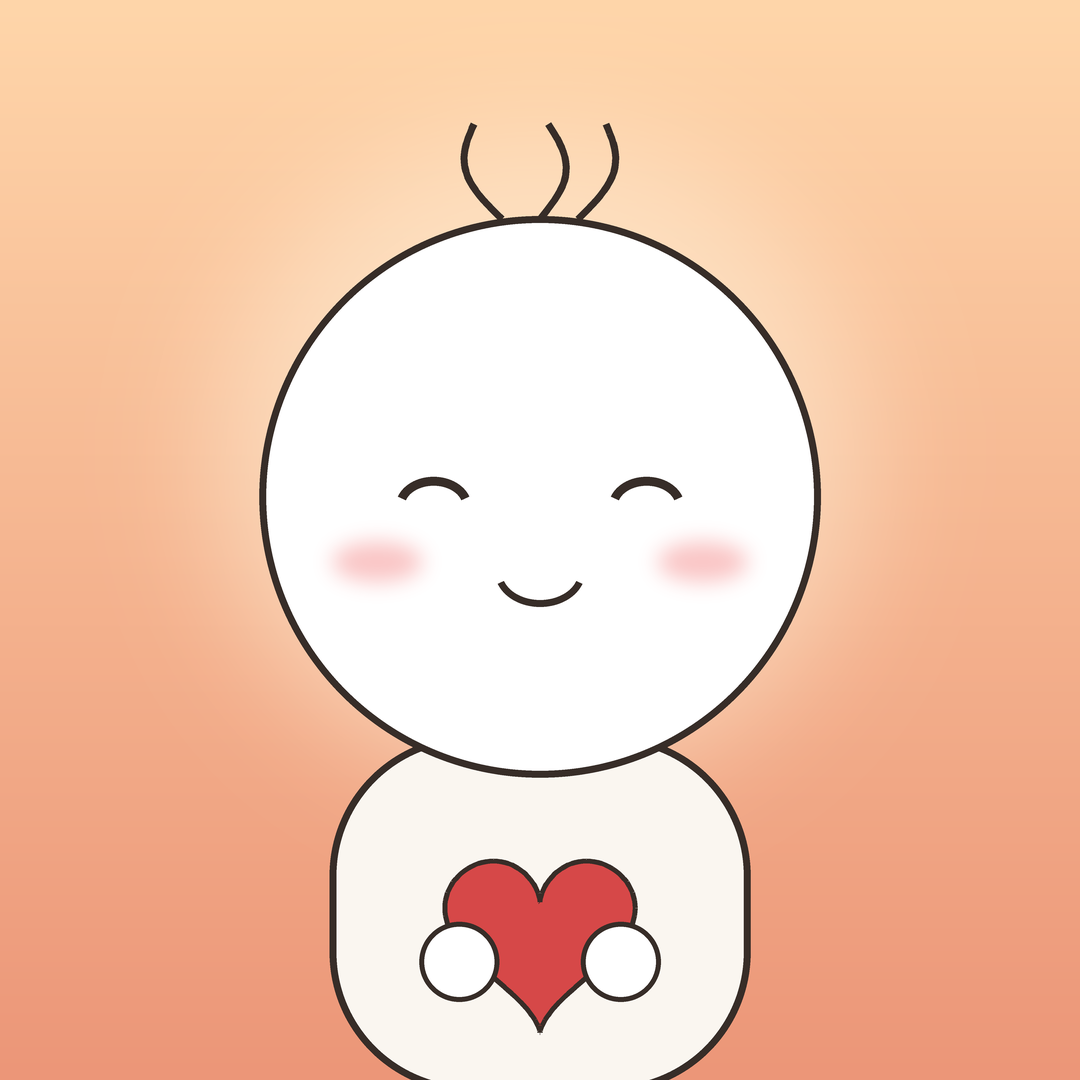
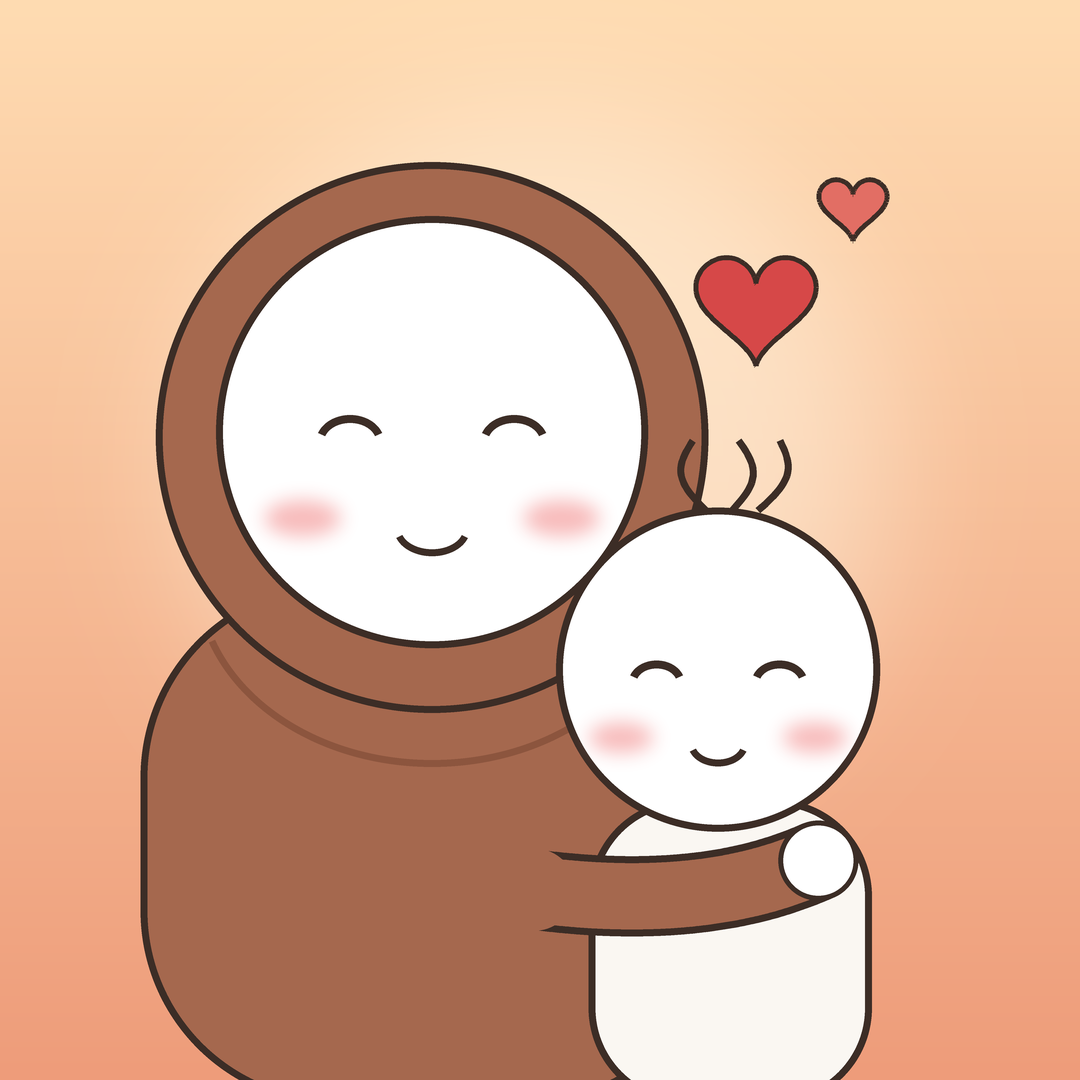
Profil resmini anne-çocuk sarılma görseliyle değiştir
Claude-Session: https://claude.ai/code/session_01KgcWQBUxqBDCmyXP68nsza

diff --git a/instagram-otomasyon/PROFIL.md b/instagram-otomasyon/PROFIL.md
@@ -1,7 +1,8 @@
 # Instagram profil bilgileri
 
-**Profil resmi:** `assets/profil_resmi.png` (1080x1080). Aynı karakter `assets/karakter.png` olarak
-görsel üretiminde referans verilir; böylece profil ve videolardaki karakter aynı olur.
+**Profil resmi:** `assets/profil_resmi.png` (1080x1080): başörtülü anne, çocuğuna sarılıyor.
+Videolardaki ana karakter (çocuk) `assets/karakter.png` olarak görsel üretiminde referans verilir;
+böylece profil ve videolardaki karakter aynı olur.
 
 **İsim alanı:** Gönül Defteri 🤍  ("Gönül Defteri" kelimesi Instagram aramasında çıkar)
 
